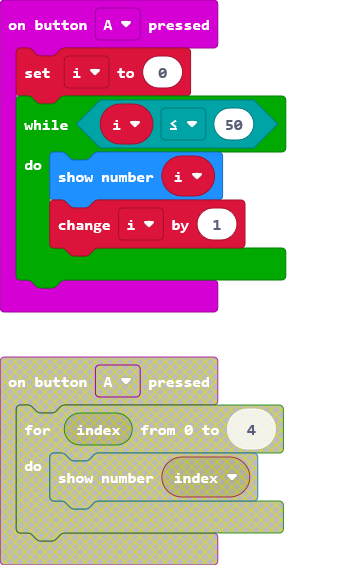
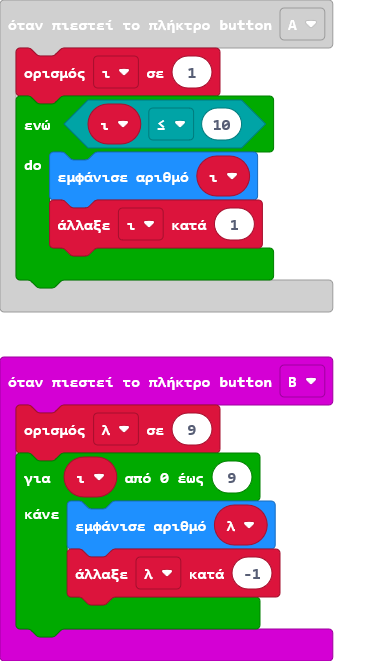
Ενημέρωση main.blocks, main.ts

diff --git a/main.ts b/main.ts
@@ -1,8 +1,16 @@
-let i = 0
+let ι = 0
+let λ = 0
 input.onButtonPressed(Button.A, function () {
-    i = 0
-    while (i <= 50) {
-        basic.showNumber(i)
-        i += 1
+    ι = 1
+    while (ι <= 10) {
+        basic.showNumber(ι)
+        ι += 1
+    }
+})
+input.onButtonPressed(Button.B, function () {
+    λ = 9
+    for (let ι = 0; ι <= 9; ι++) {
+        basic.showNumber(λ)
+        λ += -1
     }
 })
